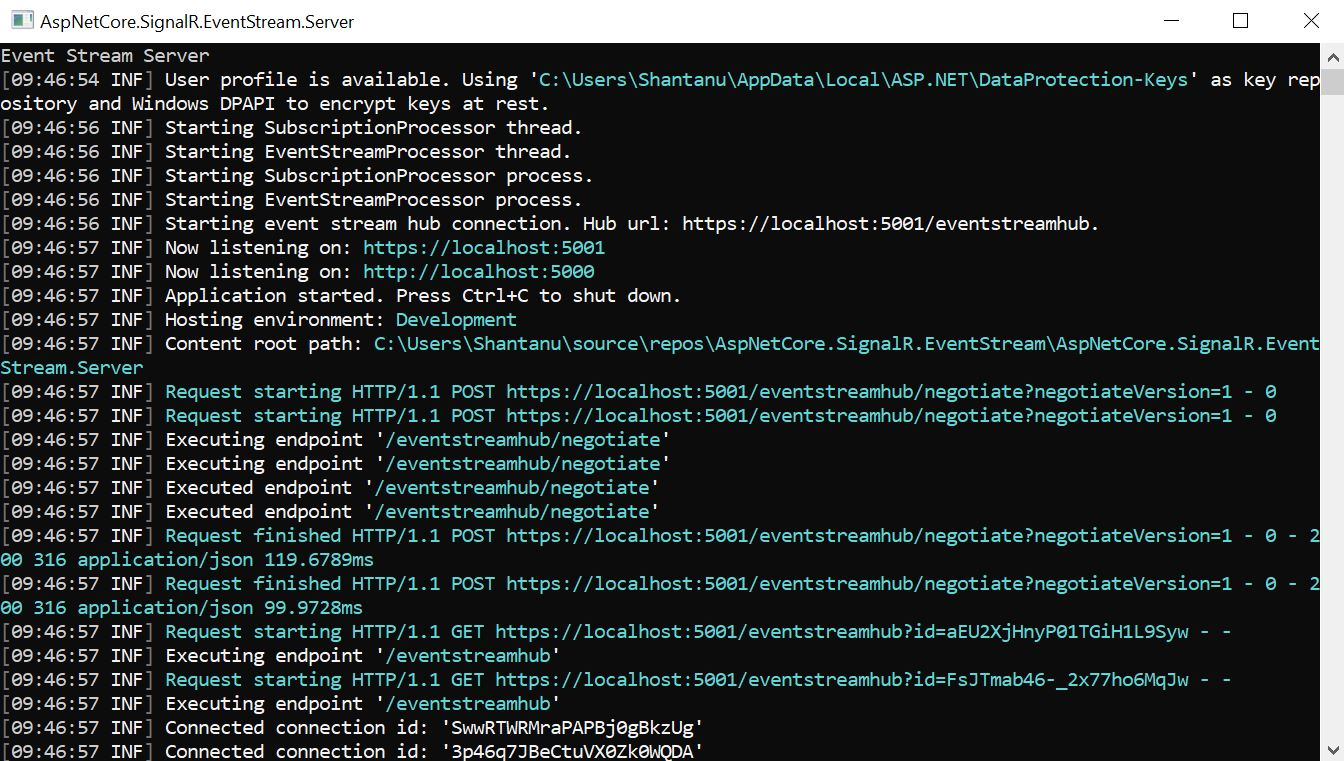
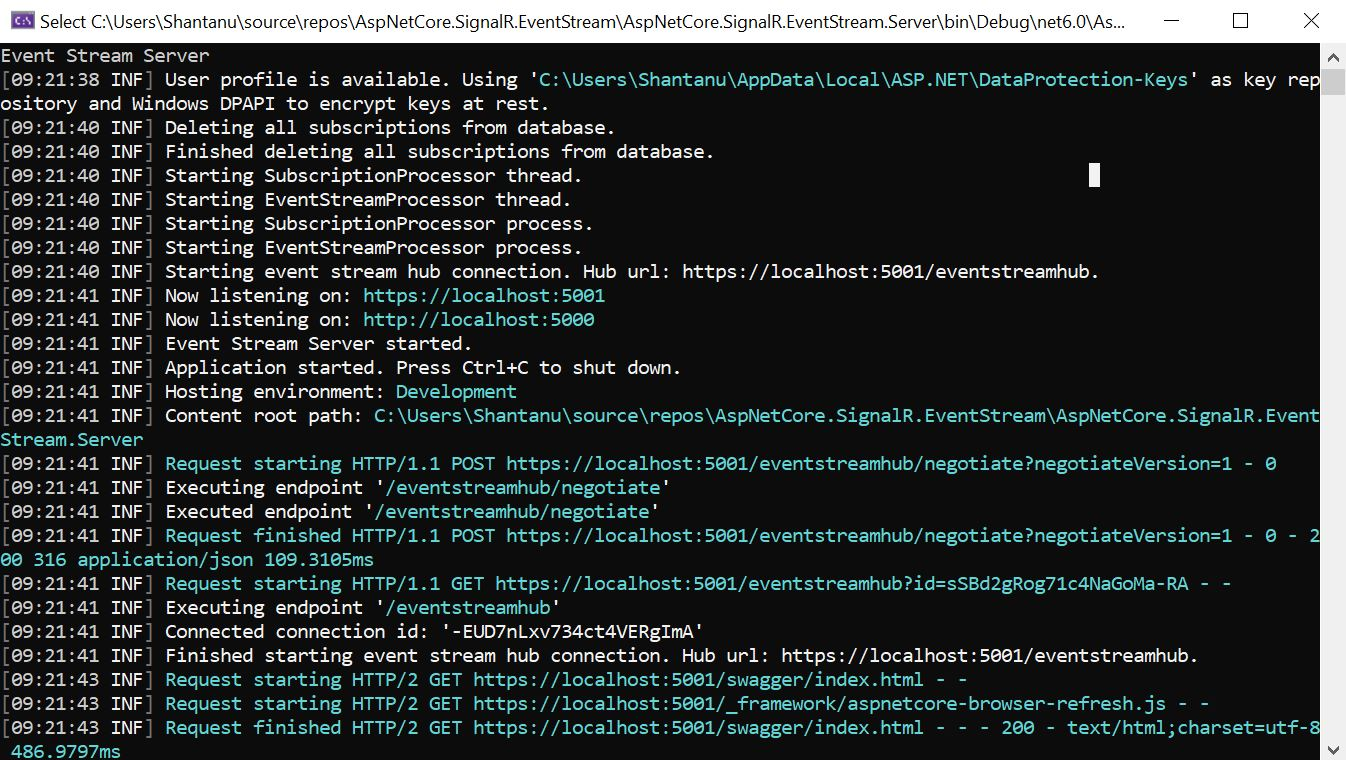
added server started log message.

Changed region(s): [[0.0, 0.0, 1.0, 1.0], [0.7812, 0.2118, 0.8438, 0.2421], [0.0312, 0.0908, 0.0938, 0.1211]]

diff --git a/AspNetCore.SignalR.EventStream/EventStreamExtensions.cs b/AspNetCore.SignalR.EventStream/EventStreamExtensions.cs
@@ -117,13 +117,20 @@ namespace AspNetCore.SignalR.EventStream
                 }
 
                 logger.LogInformation("Event Stream Server shut down.");
-            });            
+            });
+
+            applicationLifeTime.ApplicationStarted.Register(async () =>
+            {               
+                logger.LogInformation("Event Stream Server started.");
+            });
 
             if (_options.DeleteDatabaseIfExists)
                 repository.EnsureDatabaseDeleted();
             repository.EnsureDatabaseCreated();
 
-            repository.DeleteAllSubscriptionsAsync().ConfigureAwait(false);            
+            logger.LogInformation("Deleting all subscriptions from database.");
+            repository.DeleteAllSubscriptionsAsync().ConfigureAwait(false);
+            logger.LogInformation("Finished deleting all subscriptions from database.");
 
             var eventStreamHubClient = app.ApplicationServices.GetServiceOrNull<IEventStreamHubClient>();
 
